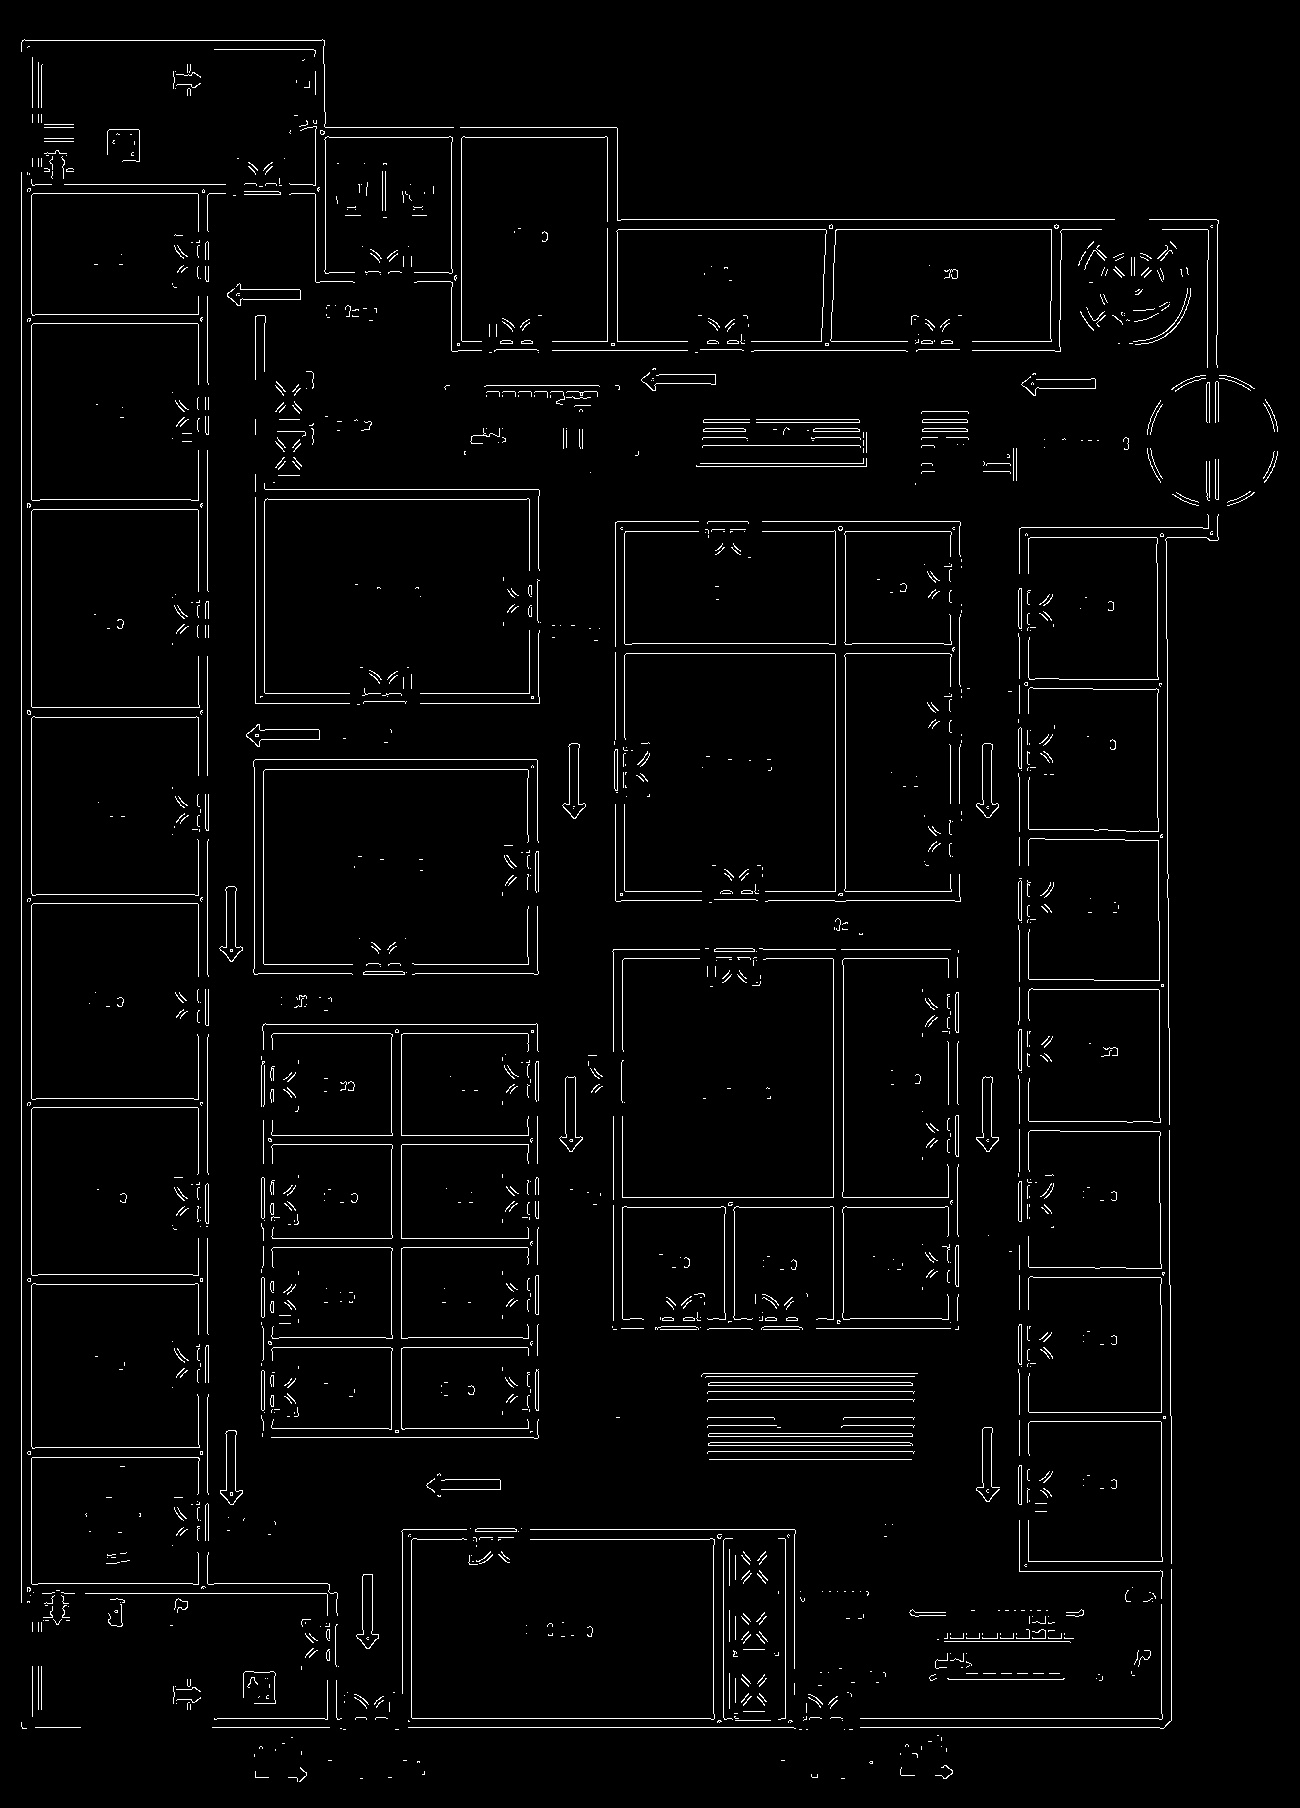
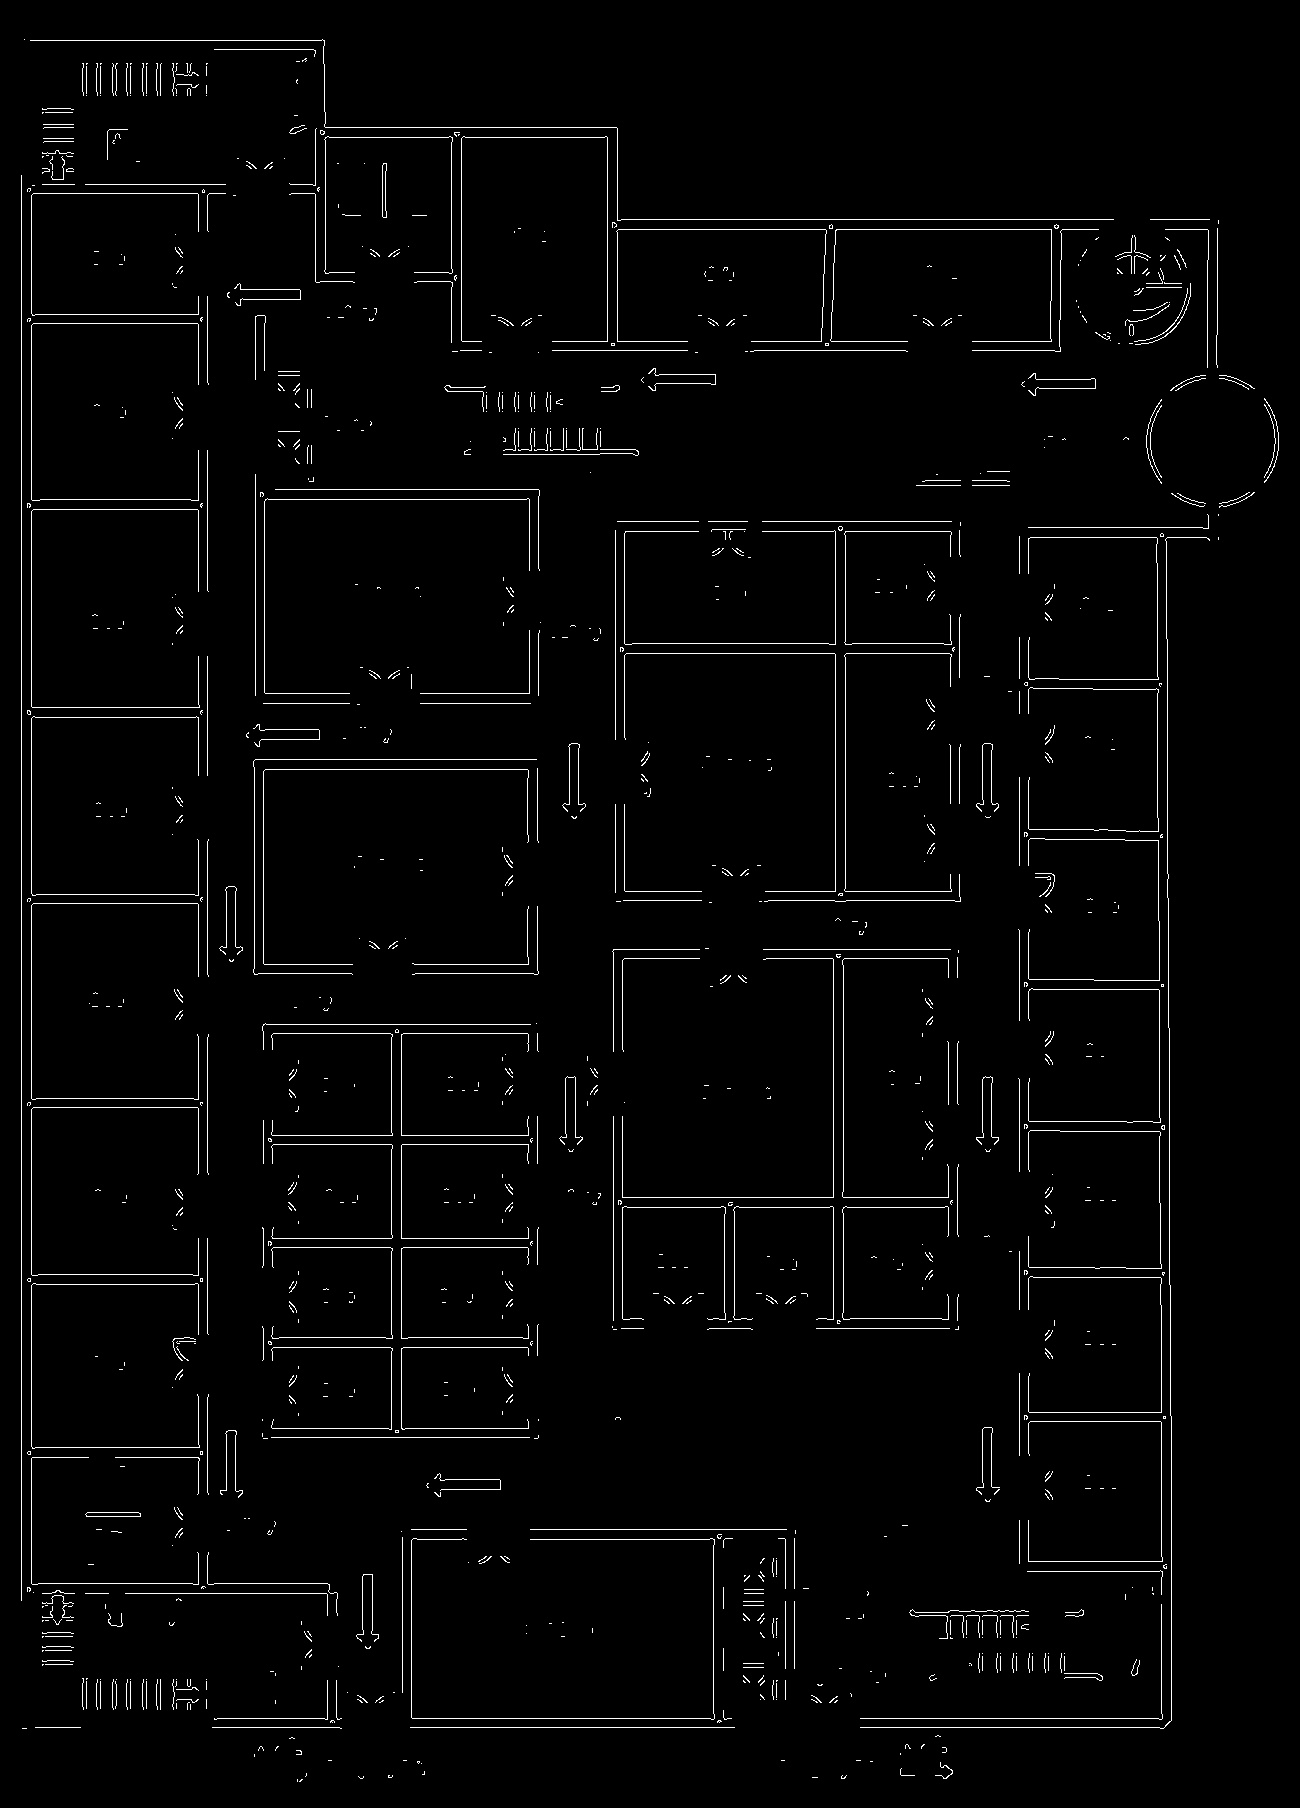
stuff

Changed region(s): [[0.5538, 0.7434, 0.7077, 0.8053], [0.7385, 0.8982, 0.8308, 0.9292], [0.7077, 0.2168, 0.7385, 0.2478]]

diff --git a/server/utils.py b/server/utils.py
@@ -1,8 +1,12 @@
+"""
+This module provides functions for extracting walls from floorplan images.
+"""
+
+import logging
+from typing import List
 import cv2
 import numpy as np
 from PIL import Image
-import logging
-from typing import List
 
 logging.basicConfig(level=logging.INFO)
 logger = logging.getLogger(__name__)
@@ -37,21 +41,17 @@ def preprocess_image(image: Image) -> np.ndarray:
 def get_cleaned_edges(edges: np.ndarray) -> np.ndarray:
     """
     Apply morphological operations to clean up the edges in the image.
-
-    Args:
-        edges (np.ndarray): The input edges.
-
-    Returns:
-        np.ndarray: The cleaned edges.
     """
-    # Apply morphological operations to clean up the image
-    kernel = np.ones((5, 5), np.uint8)
+    # Apply larger morphological kernel to clean up the image
+    kernel = np.ones((7, 7), np.uint8)  # Increase kernel size for larger structures
     cleaned_edges = cv2.morphologyEx(edges, cv2.MORPH_CLOSE, kernel)
     cleaned_edges = cv2.morphologyEx(cleaned_edges, cv2.MORPH_OPEN, kernel)
 
-    # Apply dilation followed by erosion to preserve larger structures (walls)
-    cleaned_edges = cv2.dilate(cleaned_edges, kernel, iterations=2)
-    cleaned_edges = cv2.erode(cleaned_edges, kernel, iterations=2)
+    # Apply dilation followed by erosion with more iterations
+    cleaned_edges = cv2.dilate(
+        cleaned_edges, kernel, iterations=3
+    )  # Increase iterations
+    cleaned_edges = cv2.erode(cleaned_edges, kernel, iterations=3)
 
     cv2.imwrite("cleaned_edges.jpg", cleaned_edges)
 
@@ -61,22 +61,18 @@ def get_cleaned_edges(edges: np.ndarray) -> np.ndarray:
 def get_wall_contours(cleaned_image: np.ndarray) -> List[np.ndarray]:
     """
     Get wall contours from the cleaned image.
-
-    Args:
-        cleaned_image (np.ndarray): The cleaned image.
-
-    Returns:
-        List[np.ndarray]: A list of wall contours.
     """
     # Find contours on the cleaned image
     contours, _ = cv2.findContours(
-        cleaned_image, cv2.RETR_EXTERNAL, cv2.CHAIN_APPROX_SIMPLE
+        cleaned_image,
+        cv2.RETR_TREE,
+        cv2.CHAIN_APPROX_SIMPLE,  # Use RETR_TREE to capture nested contours
     )
 
     wall_contours = []
     for cnt in contours:
         # Approximate the contour to reduce the number of points
-        approx = cv2.approxPolyDP(cnt, 3, True)
+        approx = cv2.approxPolyDP(cnt, 5, True)  # Loosen approximation tolerance
 
         # Calculate the bounding rectangle of the contour
         _, _, w, h = cv2.boundingRect(approx)
@@ -85,8 +81,10 @@ def get_wall_contours(cleaned_image: np.ndarray) -> List[np.ndarray]:
         aspect_ratio = float(w) / h
         area = cv2.contourArea(approx)
 
-        # Filter contours based on aspect ratio and area
-        if 0.2 < aspect_ratio < 5.0 and area > 1000:
+        # Relax the filtering conditions for aspect ratio and area
+        if (
+            0.1 < aspect_ratio < 10.0 and area > 500
+        ):  # Adjust thresholds for smaller walls
             wall_contours.append(approx)
 
     return wall_contours
@@ -127,6 +125,11 @@ def extract_walls(image_initial: Image) -> List[np.ndarray]:
     # Mask the walls in the edges image
     walls_extracted = cv2.bitwise_and(edges, edges, mask=wall_only_mask)
     cv2.imwrite("walls_extracted.jpg", walls_extracted)
+
+    # Additional morphological operations to remove artifacts and non-wall features
+    kernel = np.ones((3, 3), np.uint8)
+    walls_extracted = cv2.morphologyEx(walls_extracted, cv2.MORPH_CLOSE, kernel)
+    walls_extracted = cv2.morphologyEx(walls_extracted, cv2.MORPH_OPEN, kernel)
 
     wall_contours = get_wall_contours(walls_extracted)
 
